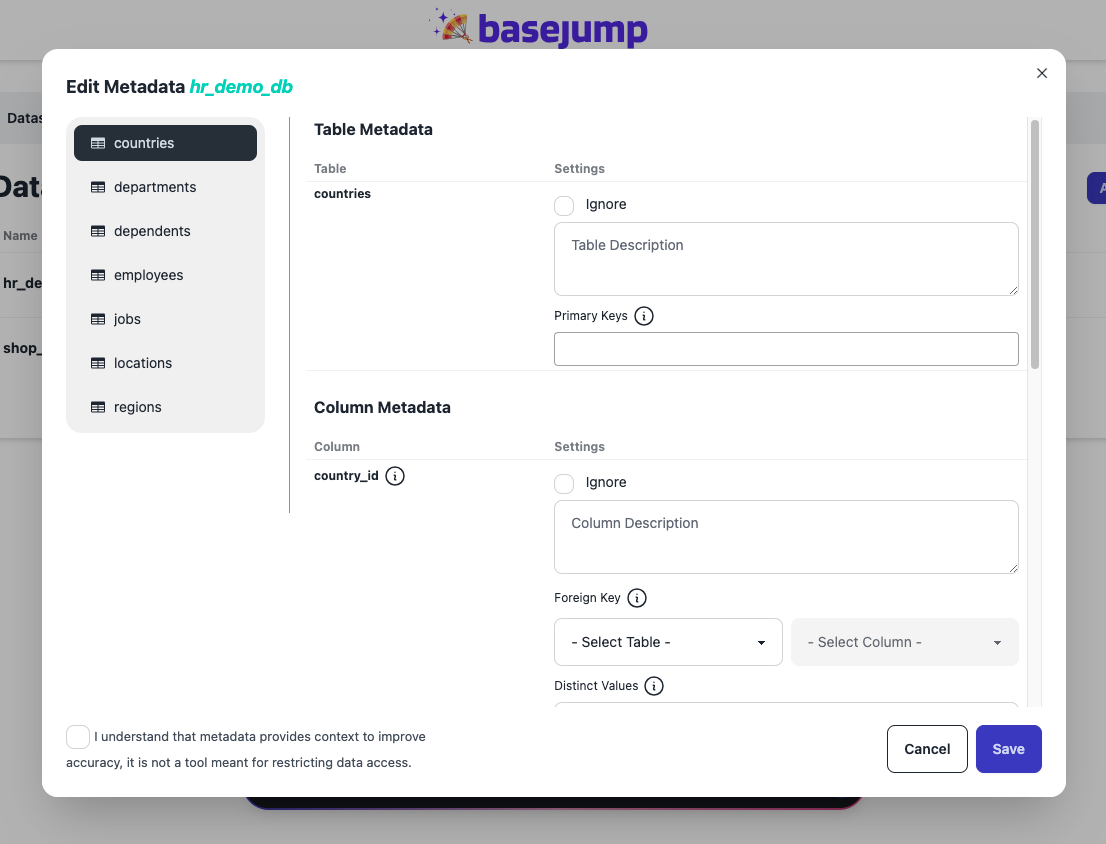
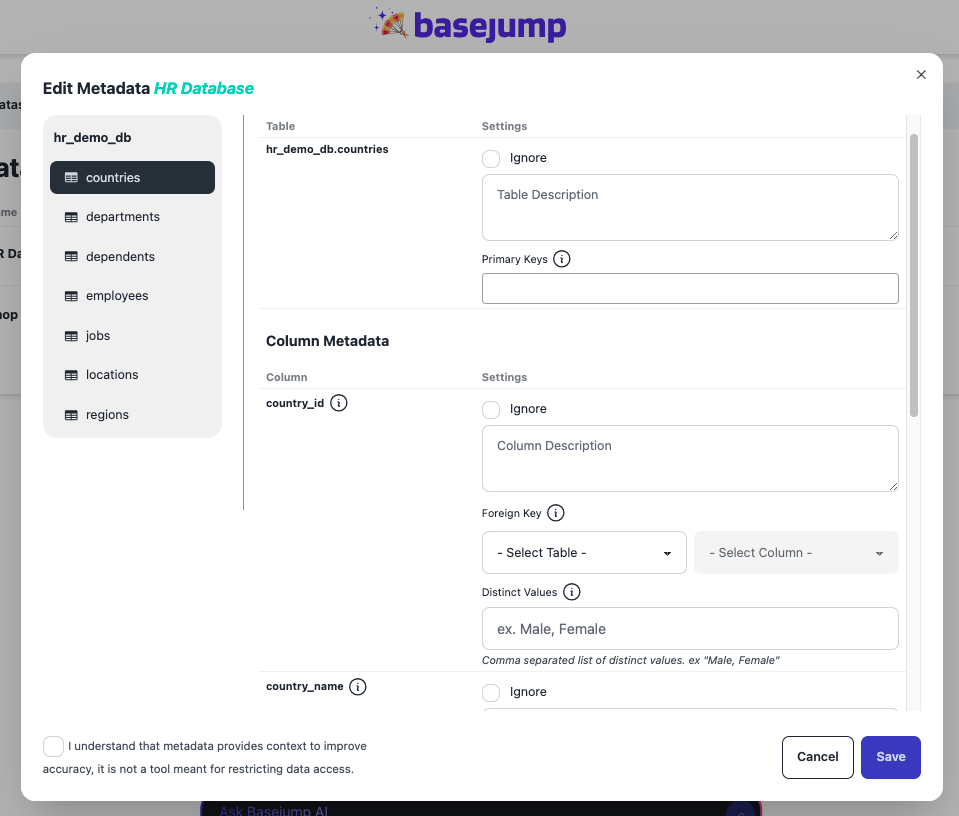
Updating the datasources page

diff --git a/sidebar-options/administrator-options/datasources.md b/sidebar-options/administrator-options/datasources.md
@@ -1,3 +1,88 @@
 # Datasources
 
+The datasources page shows all available datasources that have been added for the company.
+
 ## Adding a New Datasource
+
+In order to get started chatting with your own data, you will need to add a datasource on the datasources page. You can see that two database sources have already been added, the 'HR Database' and the 'Shop Database'. To add your own database, follow these steps:
+
+![The Datasources page](/images/datasources/datasource_page.png)
+
+1. Click the 'Add Database' button
+
+![The Add Database view](/images/datasources/add_database_modal.png)
+
+2. Fill in your database credentials in the modal window. To include any additional schemas besides the default schema, add them in the 'Accessible Schemas' section.
+
+3. Your database comes with the initial connection that you provided. You can add additional connections with different usernames and passwords by selecting the connection number on the database line. Access to Users is provisioned at the connection level and not at the database level.
+
+![Click the Connection number tile to manage connections](/images/datasources/manage_connections.png)
+
+## Database Metadata
+
+One of the most important steps is that you supplement the automatic profiling of your database for the Basejump AI data agent with metadata.
+
+### Editing Metadata
+
+If you have not edited the metadata, you will get a caution symbol indicating it needs to be updated and/or reviewed. To remove this caution symbol, either click the caution icon or navigate to the edit option under metadata in the context menu.
+
+![Selecting the edit metadata button](/images/datasources/select_edit_metadata.png)
+
+After selecting the edit option, you will see each table in the modal window sidebar. For each table, you have a few options for information that you can supplement. 
+
+![Editing database metadata](/images/datasources/edit_metadata.png)
+
+**Table Metadata**
+Metadata Setting   | Description
+---    | ---
+Ignore | This option will tell the AI to ignore the table and not use it when providing answers to Users. 
+Table Description | Providing a description of the table will help the AI find relevant information for Users.
+Primary Keys | Primary keys will help ensure that the outputs are distinct and avoid the possibility of duplicates in the output.
+
+**Column Metadata**
+Metadata Setting   | Description
+---    | ---
+Ignore | Same behavior as ignore for tables, but at the columnar level of detail.
+Column Description | Providing a description of the columnb will help the AI find relevant information for Users.
+Foreign Key | Fill out this field with another table that has this column. This information is used to help the AI join tables together.
+Distinct Values | Add distinct values using a comma-seperated list for the column for columns with low cardinality (i.e. there are only a few options such as 'Male', 'Female' for example)
+
+## Templated Schemas
+
+Database connections can have access to different schemas, but these different schemas are based on the exact same database table layout. This setup is more common with SQL workflows powered by dbt or using some variant where Jinja and SQL are combined.
+
+In order to set up templated schemas, add a database on the database page.
+
+![Using templated schemas](/images/datasources/templated_schemas.png)
+
+You can see in the image above that templated schema was added. It includes a key for the templated schema listed as 'db_type'. This creates an input box down below to fill in the value for that particular connection that appears after submitting.
+
+![The templated schema input](/images/datasources/required_templated_schema.png)
+
+For this one we will put 'demo'. So the full schema name will resolve to 'hr_demo_db'.
+
+Then whenever a new connection is added, it will also prompt you for the 'jinjafied' schema. Adding a new connection now looks like this:
+
+![Image showing what adding a new conection would look like](/images/datasources/adding_conn_w_templated_schema.png)
+
+## Bulk Add Connections
+
+A tall is shown by the database name with the connection count.
+
+![Click the Connection number tile to manage connections](/images/datasources/manage_connections.png)
+
+Clikcing this button for managing connections will take you to the Connections page. Click 'Bulk Import' to import many connections at once. This allows you to create many connections with each one associated with a unique username, password, and optional schema (your database user login).
+
+![Bulk importing Connections](/images/datasources/bulk_import_connections.png)
+
+This is really important for those may have many different user roles all with different schemas. Instead of inputting them manually, you can upload the connections using a CSV.
+
+## Bulk Manage Team Access
+
+Many teams can be given access to a connection at once by clicking the team count tally on the connection page. A tooltip will appear with the text 'Manage Teams'.
+
+![Click the Team number tally to manage Teams](/images/datasources/select_manage_teams_connections.png)
+
+Using the checkboxes on the pop-up modal, you can easily provision or remove access to database connections.
+
+![Managing team connections](/images/datasources/manage_team_connections.png)
